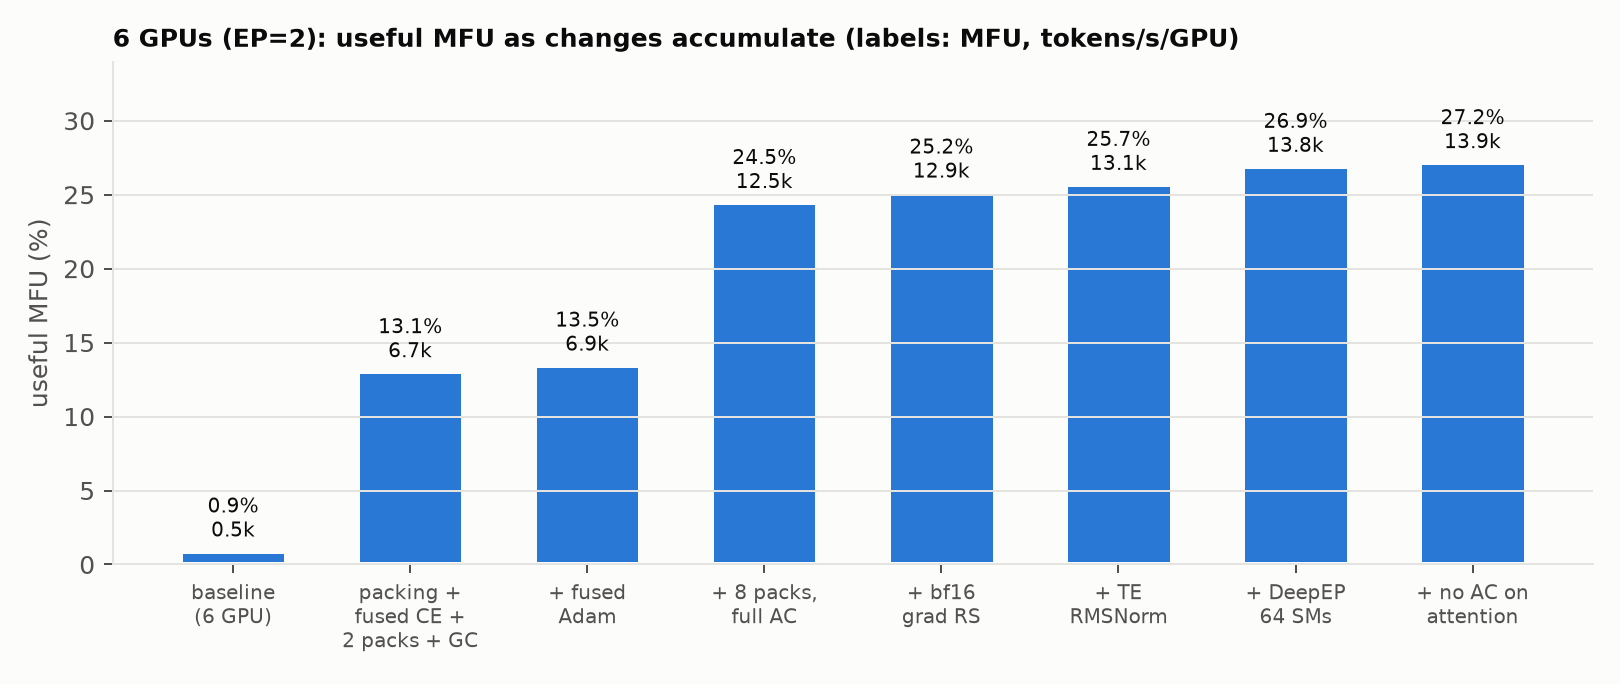
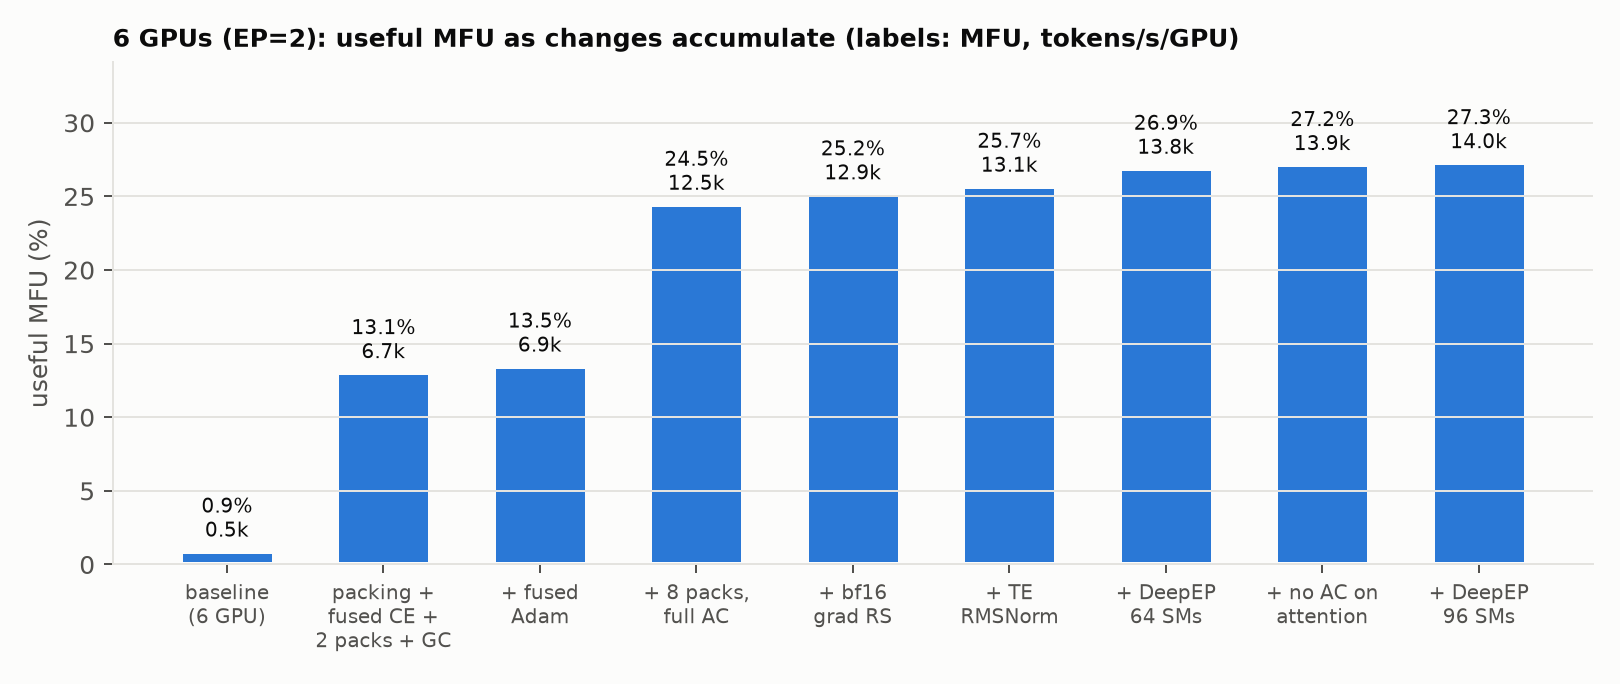
feat(mfu): 96 DeepEP SMs in 6-GPU best config (final: 13,953 tok/s/GPU, 27.3% useful MFU)

diff --git a/mfu/plots.py b/mfu/plots.py
@@ -225,6 +225,7 @@ RUNS_6GPU = [  # (label, run-dir suffix): each row adds one change to the previo
     ("+ TE\nRMSNorm", "_best6v2_rmsnorm_te"),
     ("+ DeepEP\n64 SMs", "_best6v3_deepep_sms64"),
     ("+ no AC on\nattention", "_best6v6_noac_attn"),
+    ("+ DeepEP\n96 SMs", "_best6v9_sms96"),
 ]
 
 

diff --git a/mfu/REPORT.md b/mfu/REPORT.md
@@ -198,10 +198,13 @@ producing `[128, 5568, 896]` instead of `[128, 1856, 2688]` (`a11eba86`); (iii) 
 | - | FP8 GEMMs (TE experts / TE linears) | fail | | Nemotron-V3 adapter lacks the TE-experts layout; a TE linear sees a [1, 2688] input (FP8 needs leading dims % 8) |
 
 | 7 | skip AC on the 6 attention blocks (new `activation_checkpointing_skip_block_types`) | 13,887 | 27.2% | +0.8% vs the mean of 5 repeat runs of step 6 (noise ≈ ±0.2%); skipping the 23 Mamba blocks OOMs |
+| - | shared-expert side-stream overlap (ported to the generic MoE) | 13,702 | | −1.3% (−3.6% with 32 DeepEP SMs): competes with DeepEP for SMs; rejected |
+| - | also skip AC on 8 of 23 Mamba layers (`activation_checkpointing_skip_layers`) | 13,069 | | −5.9% at 63.9 GiB (likely allocator pressure); rejected |
+| 8 | DeepEP 96 SMs | **13,953** | **27.3%** | +0.5% vs 64 SMs; final |
 
 ![6-GPU progression](results/figures/mfu_6gpu_progression.png)
 
-**Result:** 13,887 tokens/s/GPU and 27.2% useful MFU on 6 GPUs, **29.2× the 6-GPU baseline** and 17% more per GPU than
+**Result:** 13,953 tokens/s/GPU and 27.3% useful MFU on 6 GPUs, **29.3× the 6-GPU baseline** and 18% more per GPU than
 the 8-GPU best configuration (11,836). Profile of the final config (`runs/*_final6_nsys`, 2,283 ms/step): GPUs 97.5%
 busy, compute kernels 87.9% of the step, communication 21.4% of which only 9.6% is exposed (was 29%); GEMMs are half
 the step (49.5%) at ~73% of BF16 peak counting the checkpointing recompute. What remains: GEMM recompute from full AC,

diff --git a/mfu/results/experiments_6gpu.md b/mfu/results/experiments_6gpu.md
@@ -41,6 +41,7 @@ Useful MFU = real tokens/s/GPU × 19.36 GFLOP / 989 TFLOP/s.
 | best6v7_sharedoverlap_sms32 | same, DeepEP 32 SMs | 13,384 | 26.2% | 2.38 | 55.8 GiB | −3.6%; rejected |
 | best6v8_noac_mamba8 | also skip AC on 8 of 23 Mamba layers (`activation_checkpointing_skip_layers`) | 13,069 | 25.6% | 2.44 | 63.9 GiB | −5.9%: less recompute but slower (likely allocator pressure near the memory limit); rejected |
 | best6v8_noac_mamba12 | 12 of 23 Mamba layers | OOM | | | | |
+| best6v9_sms96 | DeepEP 96 SMs (on top of no-AC-attention) | 13,953 | 27.31% | 2.28 | 55.8 GiB | +0.5% vs 64 SMs; adopted (final) |
 
 ## Profile of best6 + fused Adam + prefetch (1,172 ms/step, nsys steps 20-23)
 

diff --git a/mfu/results/20260928-120040_best6v9_sms96/summary.md b/mfu/results/20260928-120040_best6v9_sms96/summary.md
@@ -1,0 +1,3 @@
+| run | steps | step time (s) | tokens/s/GPU | MFU % (recipe) | pad eff. | useful MFU % | peak mem (GiB) | loss first→last |
+|---|---|---|---|---|---|---|---|---|
+| 20260928-120040_best6v9_sms96 | 25/30 | 2.311 (med 2.279) | 13813 (med 13953) | 28.37 (med 28.67) | 0.971 | 27.04 (med 27.31) | 55.8 | 5.351→0.777 |
